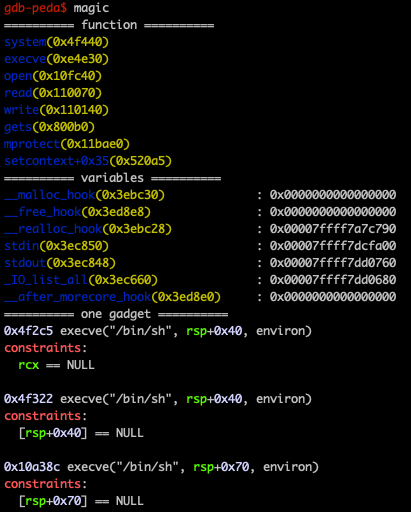
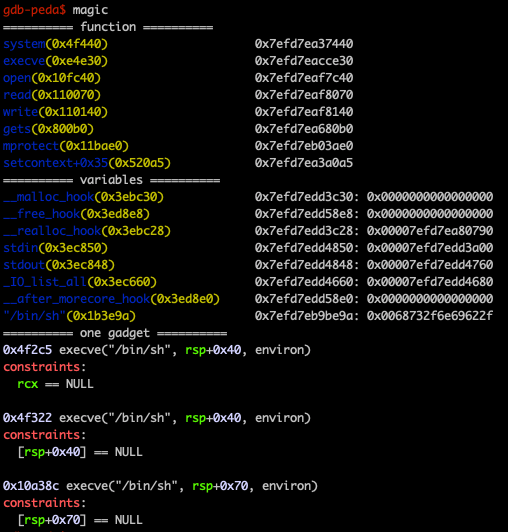
改进magic输出

Changed region(s): [[0.0, 0.0, 0.9927, 1.0]]

diff --git a/pwngdb.py b/pwngdb.py
@@ -132,28 +132,42 @@ class PwnCmd(object):
 
         try:
             infomap = procmap()
+            libc_base = libcbase()
             data = re.findall('.*libc.*\.so', infomap)
             if data:
-                libc_addr = data[0].split()[-1]
+                libc_path = data[0].split()[-1]
             print("========== function ==========")
             for f in magic_function:
-                print("\033[34m%s\033[33m(%s)\033[37m" % (f, hex(getoff(f))))
+                cmd = "x/" + word + "&" + f
+                func_addr = gdb.execute(cmd, to_string=True).split()[0].strip()
+                to_print = "\033[34m%s\033[33m(%s)\033[37m" % (f, hex(getoff(f)))
+                to_print = to_print.ljust(36 + 15, ' ') + func_addr
+                print(to_print)
             print("========== variables ==========")
             for v in magic_variable:
                 cmd = "x/" + word + "&" + v
-                content = gdb.execute(cmd, to_string=True).split(":")[1].strip()
+                output = gdb.execute(cmd, to_string=True)
+                var_addr = output.split()[0].strip()
+                var_content = output.split(':')[1].strip()
                 offset = hex(getoff("&" + v))
-                pad = 36 - len(v) - len(offset) - 2
-                print("\033[34m%s\033[33m(%s)\033[37m%s: \033[37m%s" % (v, offset, ' ' * pad, content))
-            if libc_addr:
-                cmd = 'strings -t x {} | grep "/bin/sh"'.format(libc_addr)
+                to_print = '\033[34m%s\033[33m(%s)\033[37m' % (v, offset)
+                to_print = to_print.ljust(36 + 15, ' ')
+                to_print += '%s: \033[37m%s' % (var_addr, var_content)
+                print(to_print)
+            if libc_path:
+                cmd = 'strings -t x {} | grep "/bin/sh"'.format(libc_path)
                 binsh_off = subprocess.check_output(cmd, shell=True).decode('utf8').split()[0]
-                pad = 23 - len(binsh_off)
-                print('\033[34m"/bin/sh"\033[33m(0x%s)\033[37m%s: \033[37m0x0068732f6e69622f' % (binsh_off.split()[0], ' ' * pad))
+                binsh_addr = libc_base + int(binsh_off, 16)
+                cmd = "x/" + word + hex(binsh_addr)
+                binsh_content = gdb.execute(cmd, to_string=True).split(':')[1].strip()
+                to_print = '\033[34m"/bin/sh"\033[33m(0x%s)\033[37m' % binsh_off
+                to_print = to_print.ljust(36 + 15, ' ')
+                to_print += '0x%x: \033[37m%s' % (binsh_addr, binsh_content)
+                print(to_print)
                 # print one gadget
                 if path.isfile('/usr/local/bin/one_gadget'):
                     print("========== one gadget ==========")
-                    system("one_gadget {}".format(libc_addr))
+                    system("one_gadget {}".format(libc_path))
         except:
             print("You need run the program first")
 
